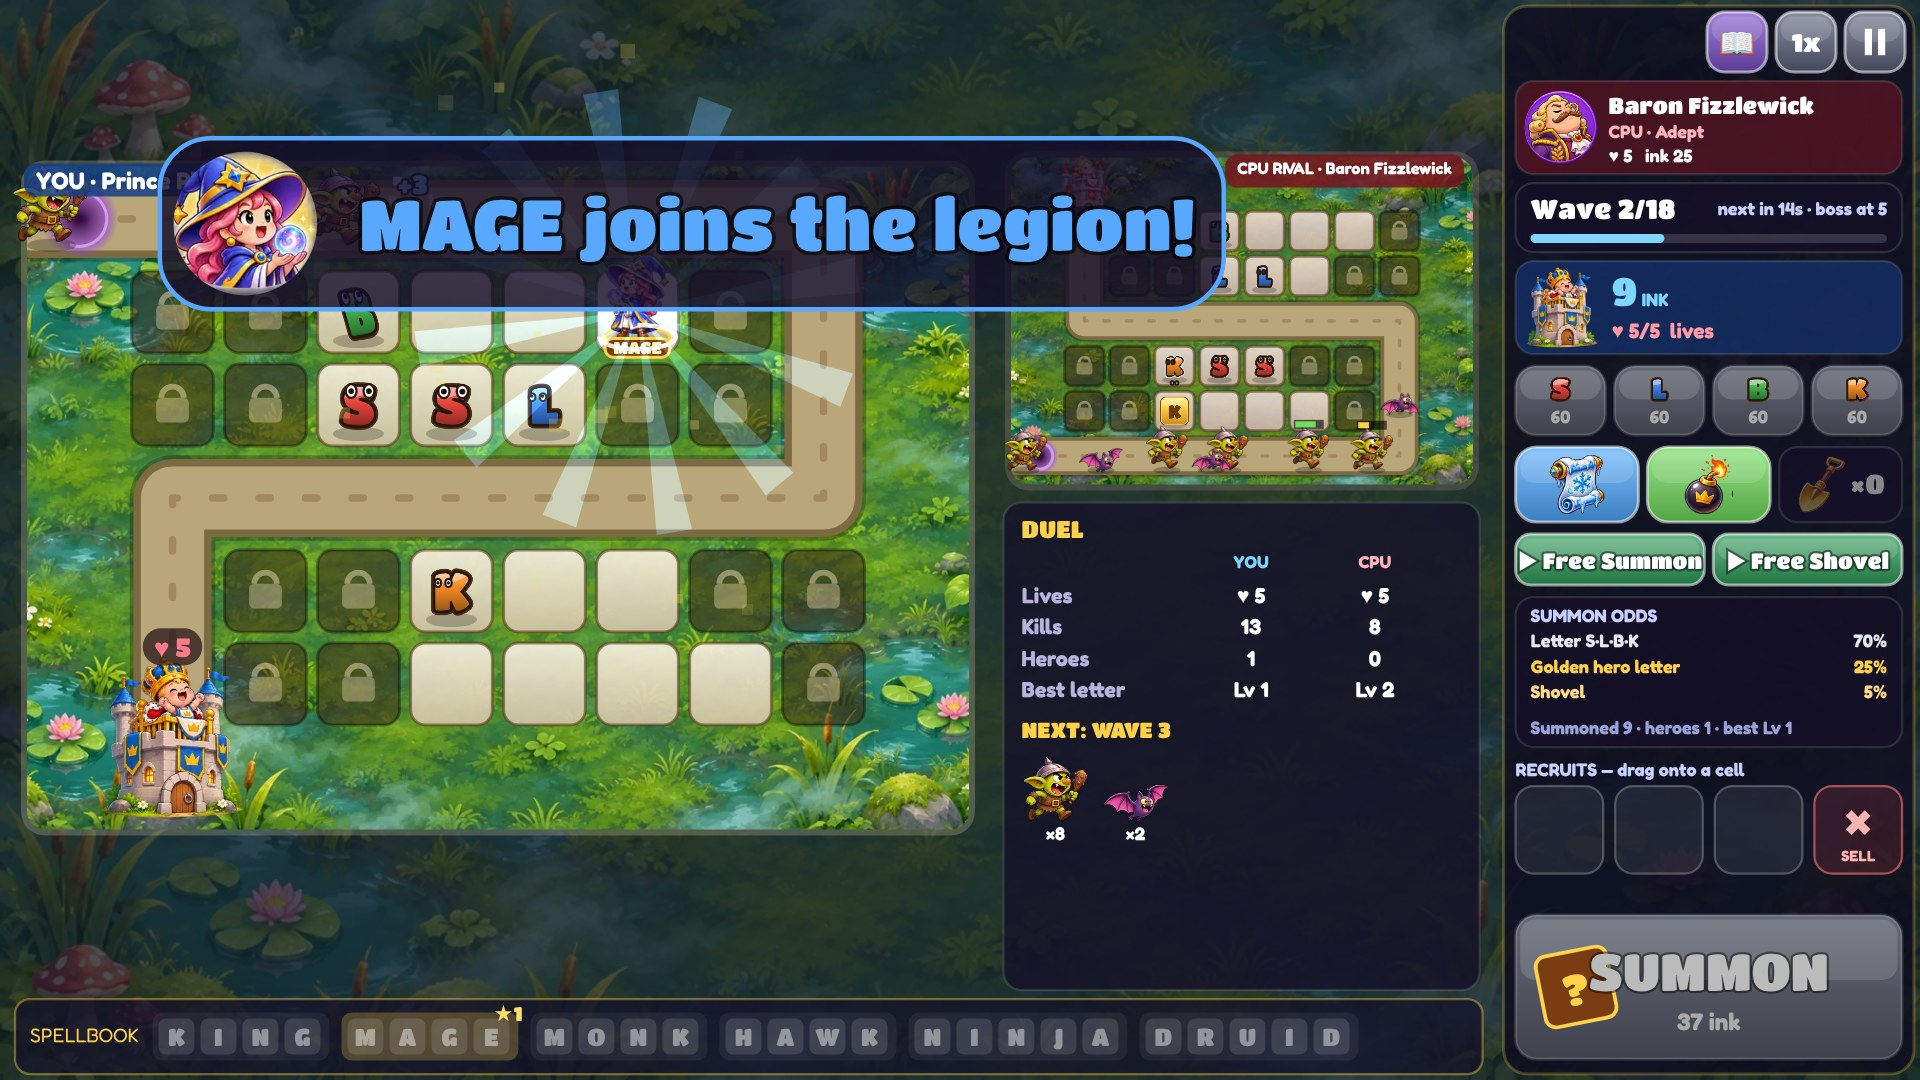
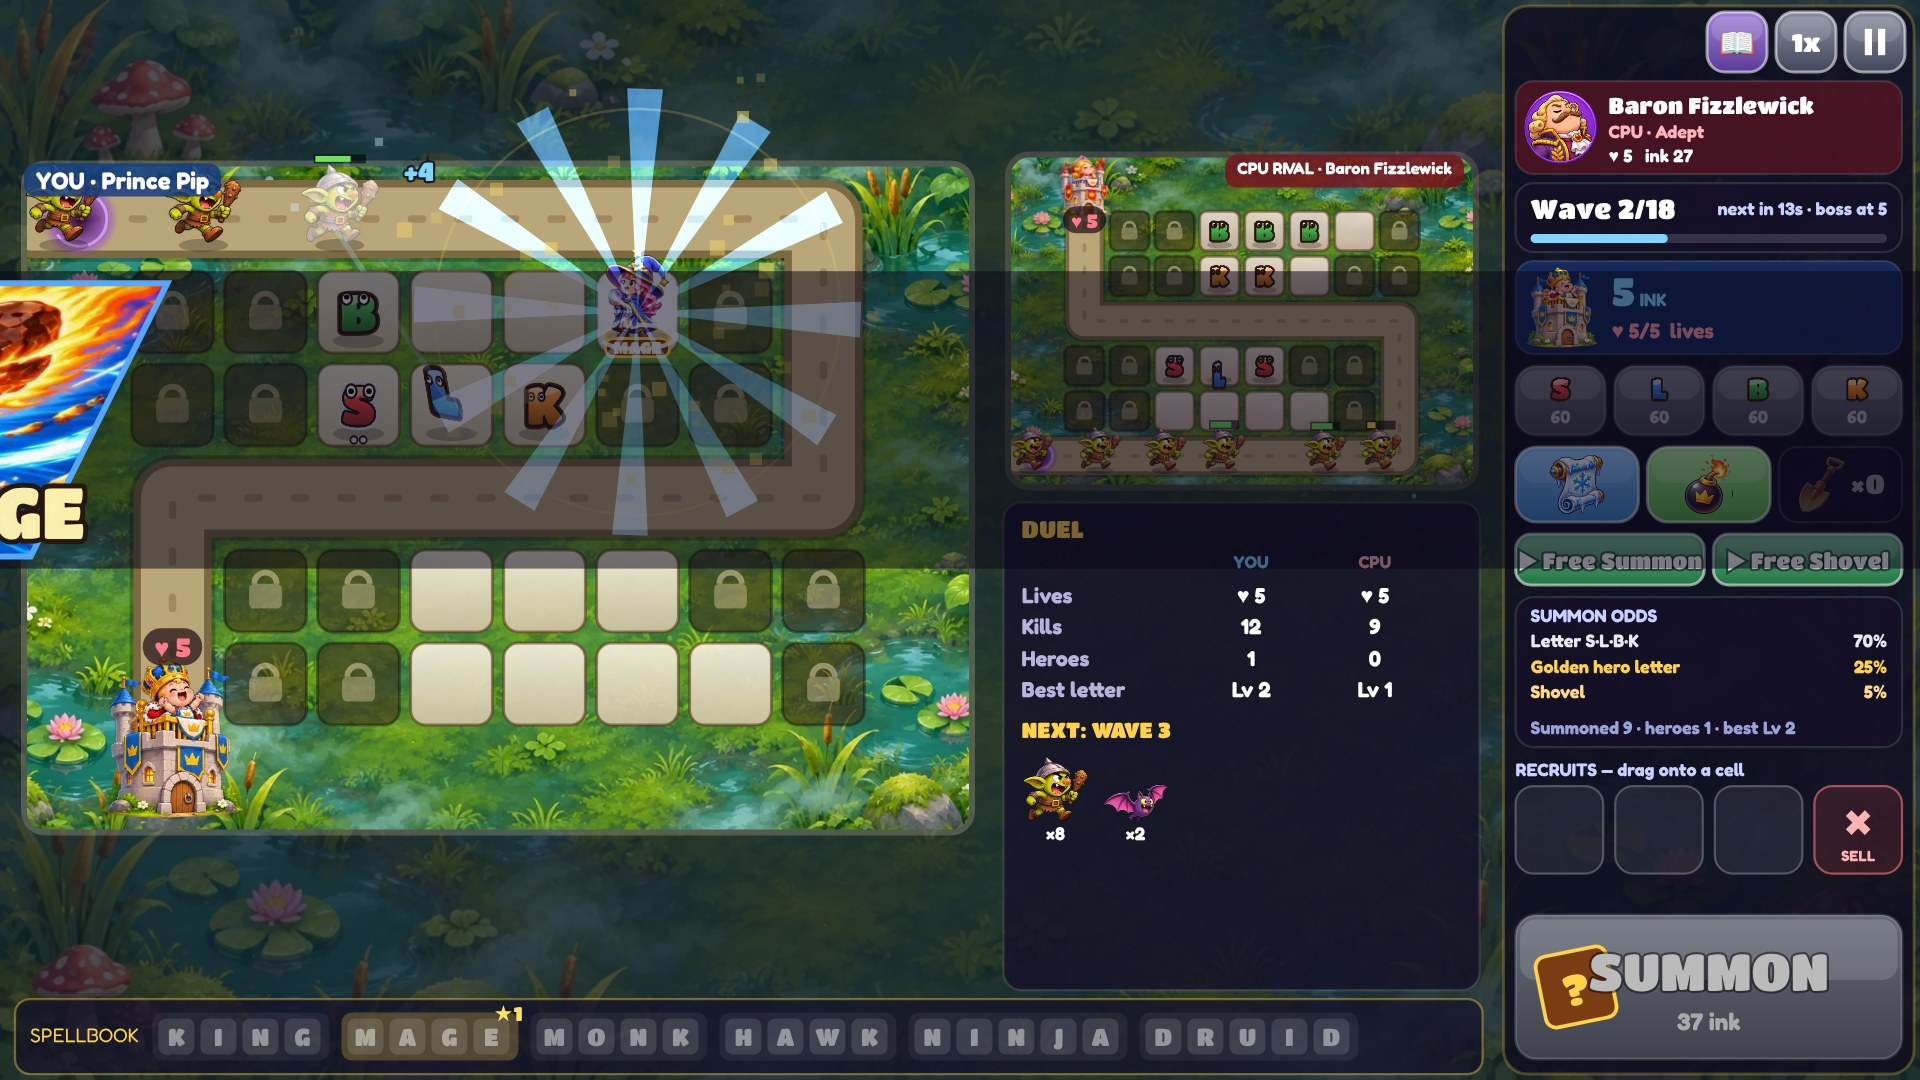
Letter Legion: cut-in timing uses real time, band limited to board; refreshed screenshots

diff --git a/letter-legion/js/render.js b/letter-legion/js/render.js
@@ -243,7 +243,7 @@ export class MatchView {
   cutin(h, label) { this.lastCut[h.id] = this.time; this.cuts = [{ h, label, t: 0, dur: 1.25 }]; }
   drawCutins(dt) {
     const im = IMG.cutins; if (!im || !this.cuts.length) return;
-    const g = this.g; const c = this.cuts[0]; c.t += dt; if (c.t > c.dur) { this.cuts.length = 0; return; }
+    const g = this.g; const c = this.cuts[0]; c.t += dt / ((this.ctl && this.ctl.speed) || 1); if (c.t > c.dur) { this.cuts.length = 0; return; }
     const p = c.t / c.dur; const geo = this.geo[0];
     const ph = clamp(geo.h * 0.42, 90, 260), pw = ph * 16 / 9 * 1.25;
     const cx = geo.x + geo.w / 2, cy = geo.y + geo.h * 0.38;
@@ -251,7 +251,7 @@ export class MatchView {
     const x = cx - pw / 2 + slide * (this.W * 0.8);
     g.save(); g.globalAlpha = p > 0.85 ? 1 - (p - 0.85) / 0.15 : 1;
     // dark band
-    g.fillStyle = 'rgba(10,6,24,0.55)'; g.fillRect(0, cy - ph / 2 - 8, this.W, ph + 16);
+    g.fillStyle = 'rgba(10,6,24,0.55)'; g.fillRect(geo.x - 8, cy - ph / 2 - 8, geo.w + 16, ph + 16);
     g.beginPath(); const sk = ph * 0.25;
     g.moveTo(x + sk, cy - ph / 2); g.lineTo(x + pw + sk, cy - ph / 2); g.lineTo(x + pw - sk, cy + ph / 2); g.lineTo(x - sk, cy + ph / 2); g.closePath();
     g.save(); g.clip();
